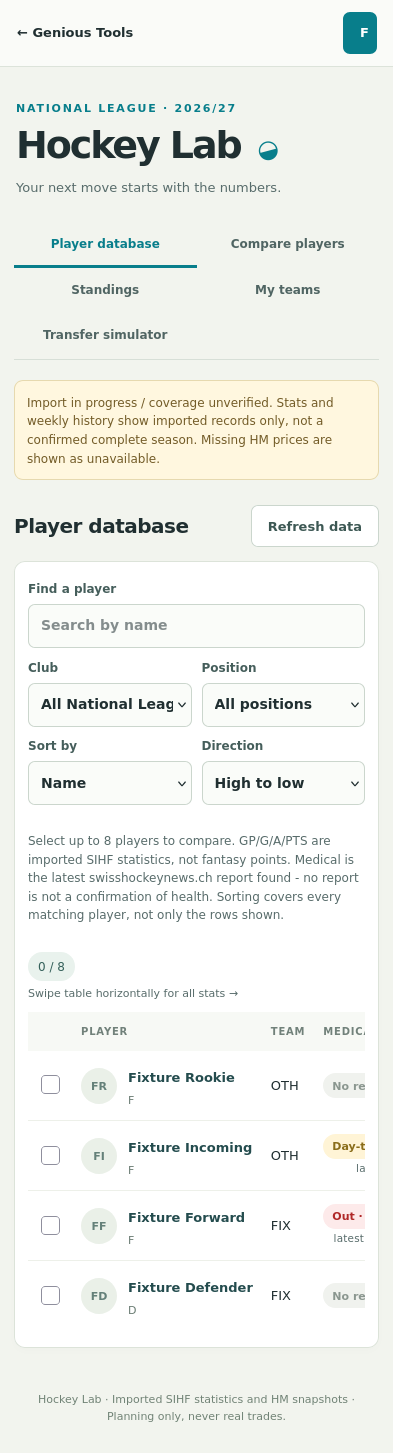
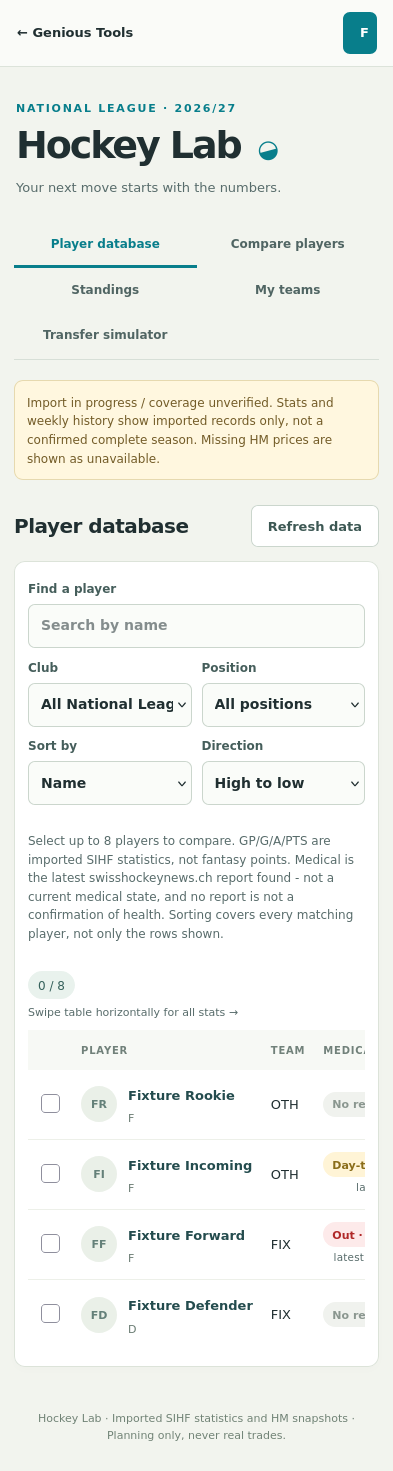
hockey: visible medical caveat text and scrolled mobile evidence

diff --git a/ui/src/apps/hockey/Hockey.jsx b/ui/src/apps/hockey/Hockey.jsx
@@ -106,7 +106,7 @@ function Simulator({ teamsState, initialId, clubs, refresh }) {
   const roster=detail.data?.roster || [], costsKnown=completeCosts(roster);
   const validation=validateTransfer(roster,sells,buys);
   async function save(e){e.preventDefault();setError('');if(validation){setError(validation);return;}setBusy(true);try{setResult(await api(`my/teams/${id}/simulations/`,{method:'POST',body:JSON.stringify({name,sells,buys})}));setVersion(v=>v+1);}catch(e){setError(e.message);}finally{setBusy(false);}}
-  return <><section className="hk-card"><p className="hk-eyebrow">SANDBOX, NOT A TRANSFER WINDOW</p><h2>What would you change?</h2><p>Save an idea without changing your roster or making real trades. No connection to HM transfer actions.</p><Status state={teamsState}><label className="hk-field">Your team<select aria-label="Your team" value={id} onChange={e=>{setId(e.target.value);setSells([]);setBuys([]);setResult(null);setError('');}}><option value="">Choose your team</option>{(teamsState.data?.teams || []).map(t=><option key={t.id} value={t.id}>{t.name}</option>)}</select></label>{!teamsState.data?.teams?.length && <p className="hk-message">Create a planning team on the My teams page first.</p>}</Status></section>{id && <><section className="hk-card"><Status state={detail}>{detail.data && <><h2>1. Outgoing <span className="hk-count">{sells.length}</span></h2>{roster.length ? <div className="hk-roster-options">{roster.map(r=><label key={r.player}><input type="checkbox" checked={sells.includes(r.player)} onChange={()=>setSells(ids=>toggleSelection(ids,r.player,22))} />{r.name}<small>{r.slot}</small></label>)}</div>:<p className="hk-message">Add players to this team before planning a swap.</p>}<h2>2. Incoming <span className="hk-count">{buys.length}</span></h2><Filters query={query} setQuery={setQuery} team={team} setTeam={setTeam} position={position} setPosition={setPosition} teams={clubs} sortBy={sortBy} setSortBy={setSortBy} sortDir={sortDir} setSortDir={setSortDir}/><Status state={incoming}><PlayerTable players={(incoming.data?.players || []).filter(p=>!roster.some(r=>r.player===p.licence_id))} selected={buys} onSelect={id=>setBuys(ids=>toggleSelection(ids,id,22))} max={22}/></Status><p className="hk-note">Medical is the latest swisshockeynews.ch report found - no report is not a confirmation of health.</p><form onSubmit={save}><label className="hk-field">Simulation name<input required maxLength="100" value={name} onChange={e=>setName(e.target.value)} /></label><p className="hk-note">{validation || 'Equal-size swap selected. Position, foreign-player limits and transfer-window eligibility are not checked.'}</p><button disabled={busy || !!validation}>{busy?'Saving...':'Save what-if (no real trade)'}</button></form>{!costsKnown && <p className="hk-notice">Acquisition costs are missing. Budget estimates are hidden to avoid treating unknown costs as zero.</p>}{error && <p role="alert" className="hk-error">{error}</p>}{result && <div className="hk-result" role="status"><h3>Saved: {result.name}</h3><p>{costsKnown && result.computed_budget_after_m != null?`Estimated budget after: ${result.computed_budget_after_m} M. Based on 140 M initial budget and imported prices, not your live HM balance.`:'Budget unavailable: missing costs or current HM prices.'}</p><p>{result.notes}</p><p>No real trade was made. Nationality/foreigner eligibility is not available.</p></div>}</>}</Status></section><section className="hk-card"><h2>Saved ideas</h2><Status state={history}>{history.data?.simulations?.length ? <ul className="hk-sim-history">{history.data.simulations.map(s=><li key={s.id}><strong>{s.name}</strong><small>{s.created_at && new Date(s.created_at).toLocaleString()}</small><p>Out: {s.sells.map(p=>p.name).join(', ') || 'None'}<br/>In: {s.buys.map(p=>p.name).join(', ') || 'None'}</p><p className="hk-note">Saved scenario only. Prices may have changed.</p></li>)}</ul>:<p className="hk-message">No saved simulations for this team.</p>}</Status></section></>}</>;
+  return <><section className="hk-card"><p className="hk-eyebrow">SANDBOX, NOT A TRANSFER WINDOW</p><h2>What would you change?</h2><p>Save an idea without changing your roster or making real trades. No connection to HM transfer actions.</p><Status state={teamsState}><label className="hk-field">Your team<select aria-label="Your team" value={id} onChange={e=>{setId(e.target.value);setSells([]);setBuys([]);setResult(null);setError('');}}><option value="">Choose your team</option>{(teamsState.data?.teams || []).map(t=><option key={t.id} value={t.id}>{t.name}</option>)}</select></label>{!teamsState.data?.teams?.length && <p className="hk-message">Create a planning team on the My teams page first.</p>}</Status></section>{id && <><section className="hk-card"><Status state={detail}>{detail.data && <><h2>1. Outgoing <span className="hk-count">{sells.length}</span></h2>{roster.length ? <div className="hk-roster-options">{roster.map(r=><label key={r.player}><input type="checkbox" checked={sells.includes(r.player)} onChange={()=>setSells(ids=>toggleSelection(ids,r.player,22))} />{r.name}<small>{r.slot}</small></label>)}</div>:<p className="hk-message">Add players to this team before planning a swap.</p>}<h2>2. Incoming <span className="hk-count">{buys.length}</span></h2><Filters query={query} setQuery={setQuery} team={team} setTeam={setTeam} position={position} setPosition={setPosition} teams={clubs} sortBy={sortBy} setSortBy={setSortBy} sortDir={sortDir} setSortDir={setSortDir}/><Status state={incoming}><PlayerTable players={(incoming.data?.players || []).filter(p=>!roster.some(r=>r.player===p.licence_id))} selected={buys} onSelect={id=>setBuys(ids=>toggleSelection(ids,id,22))} max={22}/></Status><p className="hk-note">Medical is the latest swisshockeynews.ch report found - not a current medical state, and no report is not a confirmation of health.</p><form onSubmit={save}><label className="hk-field">Simulation name<input required maxLength="100" value={name} onChange={e=>setName(e.target.value)} /></label><p className="hk-note">{validation || 'Equal-size swap selected. Position, foreign-player limits and transfer-window eligibility are not checked.'}</p><button disabled={busy || !!validation}>{busy?'Saving...':'Save what-if (no real trade)'}</button></form>{!costsKnown && <p className="hk-notice">Acquisition costs are missing. Budget estimates are hidden to avoid treating unknown costs as zero.</p>}{error && <p role="alert" className="hk-error">{error}</p>}{result && <div className="hk-result" role="status"><h3>Saved: {result.name}</h3><p>{costsKnown && result.computed_budget_after_m != null?`Estimated budget after: ${result.computed_budget_after_m} M. Based on 140 M initial budget and imported prices, not your live HM balance.`:'Budget unavailable: missing costs or current HM prices.'}</p><p>{result.notes}</p><p>No real trade was made. Nationality/foreigner eligibility is not available.</p></div>}</>}</Status></section><section className="hk-card"><h2>Saved ideas</h2><Status state={history}>{history.data?.simulations?.length ? <ul className="hk-sim-history">{history.data.simulations.map(s=><li key={s.id}><strong>{s.name}</strong><small>{s.created_at && new Date(s.created_at).toLocaleString()}</small><p>Out: {s.sells.map(p=>p.name).join(', ') || 'None'}<br/>In: {s.buys.map(p=>p.name).join(', ') || 'None'}</p><p className="hk-note">Saved scenario only. Prices may have changed.</p></li>)}</ul>:<p className="hk-message">No saved simulations for this team.</p>}</Status></section></>}</>;
 }
 export default function Hockey({ path, onNavigate, onHome }) {
   const page=path.split('/')[3] || 'players';
@@ -119,7 +119,7 @@ export default function Hockey({ path, onNavigate, onHome }) {
   const nav=[['players','Player database'],['compare','Compare players'],['standings','Standings'],['teams','My teams'],['simulator','Transfer simulator']];
   const current=nav.find(([key])=>key===page) || nav[0];
   return <main className={`hk-app${selected.length && ['players','compare'].includes(current[0]) ? ' hk-has-selection' : ''}`}><header className="hk-header"><button className="hk-home" onClick={onHome}>← Genious Tools</button><AccountMenu /></header><div className="hk-shell"><section className="hk-hero"><div><p className="hk-eyebrow">NATIONAL LEAGUE · {SEASON_LABEL}</p><h1>Hockey Lab<span className="hk-puck" aria-hidden="true">◒</span></h1><p>Your next move starts with the numbers.</p></div><div className="hk-season"><span>SEASON</span><strong>{SEASON_LABEL}</strong><small>Private planning workspace</small></div></section><nav className="hk-tabs" aria-label="Hockey pages">{nav.map(([key,label])=><a key={key} href={`/apps/hockey/${key}`} aria-current={current[0]===key?'page':undefined} onClick={e=>{e.preventDefault();onNavigate(`/apps/hockey/${key}`);setDetailId(null);}}>{label}</a>)}</nav><aside className="hk-notice">Import in progress / coverage unverified. Stats and weekly history show imported records only, not a confirmed complete season. Missing HM prices are shown as unavailable.</aside><div className="hk-title-row"><h2>{current[1]}</h2><button className="hk-secondary" onClick={()=>setVersion(v=>v+1)}>Refresh data</button></div>
-    {['players','compare'].includes(current[0]) && <><section className="hk-card"><Filters query={query} setQuery={setQuery} team={team} setTeam={setTeam} position={position} setPosition={setPosition} teams={clubs.data?.teams || []} sortBy={sortBy} setSortBy={setSortBy} sortDir={sortDir} setSortDir={setSortDir}/>{clubs.error && <p className="hk-error">Club filters: {clubs.error}</p>}<div className="hk-section-head"><p className="hk-note">Select up to 8 players to compare. GP/G/A/PTS are imported SIHF statistics, not fantasy points. Medical is the latest swisshockeynews.ch report found - no report is not a confirmation of health. {players.data?.total != null && players.data.total > (players.data.players?.length || 0) ? `Showing ${players.data.players.length} of ${players.data.total} matching players; narrow your search.` : 'Sorting covers every matching player, not only the rows shown.'}</p><span className="hk-count">{selected.length} / 8</span></div><Status state={players}><PlayerTable players={players.data?.players || []} selected={selected} onSelect={id=>setSelected(ids=>toggleSelection(ids,id))} onDetail={setDetailId}/></Status>{selected.length>0 && <div className="hk-selection" role="region" aria-label="Player selection"><span><strong>{selected.length}</strong> {selected.length === 1 ? 'player' : 'players'} selected across filters</span>{current[0]!=='compare' ? <button onClick={()=>onNavigate('/apps/hockey/compare')}>Compare selected</button> : <button onClick={()=>document.getElementById('hk-comparison')?.scrollIntoView({behavior:'smooth',block:'start'})}>View comparison</button>}<button className="hk-secondary" onClick={()=>setSelected([])}>Clear selection</button></div>}</section>{detailId && <PlayerDetail id={detailId} close={()=>setDetailId(null)}/>}</>}
+    {['players','compare'].includes(current[0]) && <><section className="hk-card"><Filters query={query} setQuery={setQuery} team={team} setTeam={setTeam} position={position} setPosition={setPosition} teams={clubs.data?.teams || []} sortBy={sortBy} setSortBy={setSortBy} sortDir={sortDir} setSortDir={setSortDir}/>{clubs.error && <p className="hk-error">Club filters: {clubs.error}</p>}<div className="hk-section-head"><p className="hk-note">Select up to 8 players to compare. GP/G/A/PTS are imported SIHF statistics, not fantasy points. Medical is the latest swisshockeynews.ch report found - not a current medical state, and no report is not a confirmation of health. {players.data?.total != null && players.data.total > (players.data.players?.length || 0) ? `Showing ${players.data.players.length} of ${players.data.total} matching players; narrow your search.` : 'Sorting covers every matching player, not only the rows shown.'}</p><span className="hk-count">{selected.length} / 8</span></div><Status state={players}><PlayerTable players={players.data?.players || []} selected={selected} onSelect={id=>setSelected(ids=>toggleSelection(ids,id))} onDetail={setDetailId}/></Status>{selected.length>0 && <div className="hk-selection" role="region" aria-label="Player selection"><span><strong>{selected.length}</strong> {selected.length === 1 ? 'player' : 'players'} selected across filters</span>{current[0]!=='compare' ? <button onClick={()=>onNavigate('/apps/hockey/compare')}>Compare selected</button> : <button onClick={()=>document.getElementById('hk-comparison')?.scrollIntoView({behavior:'smooth',block:'start'})}>View comparison</button>}<button className="hk-secondary" onClick={()=>setSelected([])}>Clear selection</button></div>}</section>{detailId && <PlayerDetail id={detailId} close={()=>setDetailId(null)}/>}</>}
     {current[0]==='standings' && <Standings/>}
     {current[0]==='compare' && <section className="hk-card" id="hk-comparison"><div className="hk-section-head"><div><p className="hk-eyebrow">FORM, WEEK BY WEEK</p><h2>Follow the trajectory</h2></div><label>Measure<select aria-label="Measure" value={metric} onChange={e=>setMetric(e.target.value)}><option value="points">SIHF points</option><option value="goals">Goals</option><option value="assists">Assists</option><option value="games">Games played</option><option value="shots_on_goal">Shots on goal</option><option value="plus_minus">Plus / minus</option></select></label></div>{!selected.length?<p className="hk-message">Select players in the table above to start a comparison.</p>:<Status state={comparison}>{comparison.data && <>{comparison.data.missing?.length>0 && <p className="hk-error">Some selected players are no longer available. Clear the selection and try again.</p>}<PlayerTable players={comparison.data.players || []}/><WeeklyChart players={comparison.data.players || []} metric={metric}/></>}</Status>}</section>}
     {current[0]==='teams' && <MyTeams refresh={version} teamsState={teams} reload={()=>setVersion(v=>v+1)} onSimulate={id=>{setSimTeam(id);onNavigate('/apps/hockey/simulator');}}/>}

diff --git a/ui/tests/browser/hockey.spec.js b/ui/tests/browser/hockey.spec.js
@@ -141,13 +141,17 @@ test('scouting table and simulator incoming list show latest medical reports, ne
  await expect(page.getByText(/no report is not a confirmation of health/)).toBeVisible();
  await expect.poll(()=>page.evaluate(()=>document.documentElement.scrollWidth <= window.innerWidth)).toBe(true);
  await page.screenshot({path:'/downloads/hockey-mobile-scouting-medical.png',fullPage:true});
+ const wrap=page.locator('.hk-table-wrap').first();await wrap.evaluate(el=>{el.scrollLeft=el.scrollWidth;});
+ const badge=fwd.getByRole('link',{name:'Out · 11-04'});await badge.scrollIntoViewIfNeeded();await expect(badge).toBeInViewport();await wrap.screenshot({path:'/downloads/hockey-mobile-scouting-medical-scrolled.png'});
  await page.goto('/apps/hockey/simulator');await page.getByLabel('Your team',{exact:true}).selectOption('10');
  const inc=page.locator('.hk-player-table tbody tr',{has:page.getByRole('checkbox',{name:'Select Fixture Incoming',exact:true})});
  const d2d=inc.getByRole('link',{name:'Day-to-day · 11-05'});
  await expect(d2d).toBeVisible();await expect(d2d).toHaveAttribute('href','https://swisshockeynews.ch/en/shn/medical/fixture-d2d');
- await expect(page.getByText(/no report is not a confirmation of health/)).toBeVisible();
+ await expect(page.getByText(/not a current medical state/)).toBeVisible();
  await expect.poll(()=>page.evaluate(()=>document.documentElement.scrollWidth <= window.innerWidth)).toBe(true);
  await page.screenshot({path:'/downloads/hockey-mobile-simulator-medical.png',fullPage:true});
+ const simWrap=page.locator('.hk-table-wrap').first();await simWrap.evaluate(el=>{el.scrollLeft=el.scrollWidth;});
+ await d2d.scrollIntoViewIfNeeded();await expect(d2d).toBeInViewport();await simWrap.screenshot({path:'/downloads/hockey-mobile-simulator-medical-scrolled.png'});
 });
 
 test('server-side sorting with direction, nulls last, selection preserved',async({page})=>{
